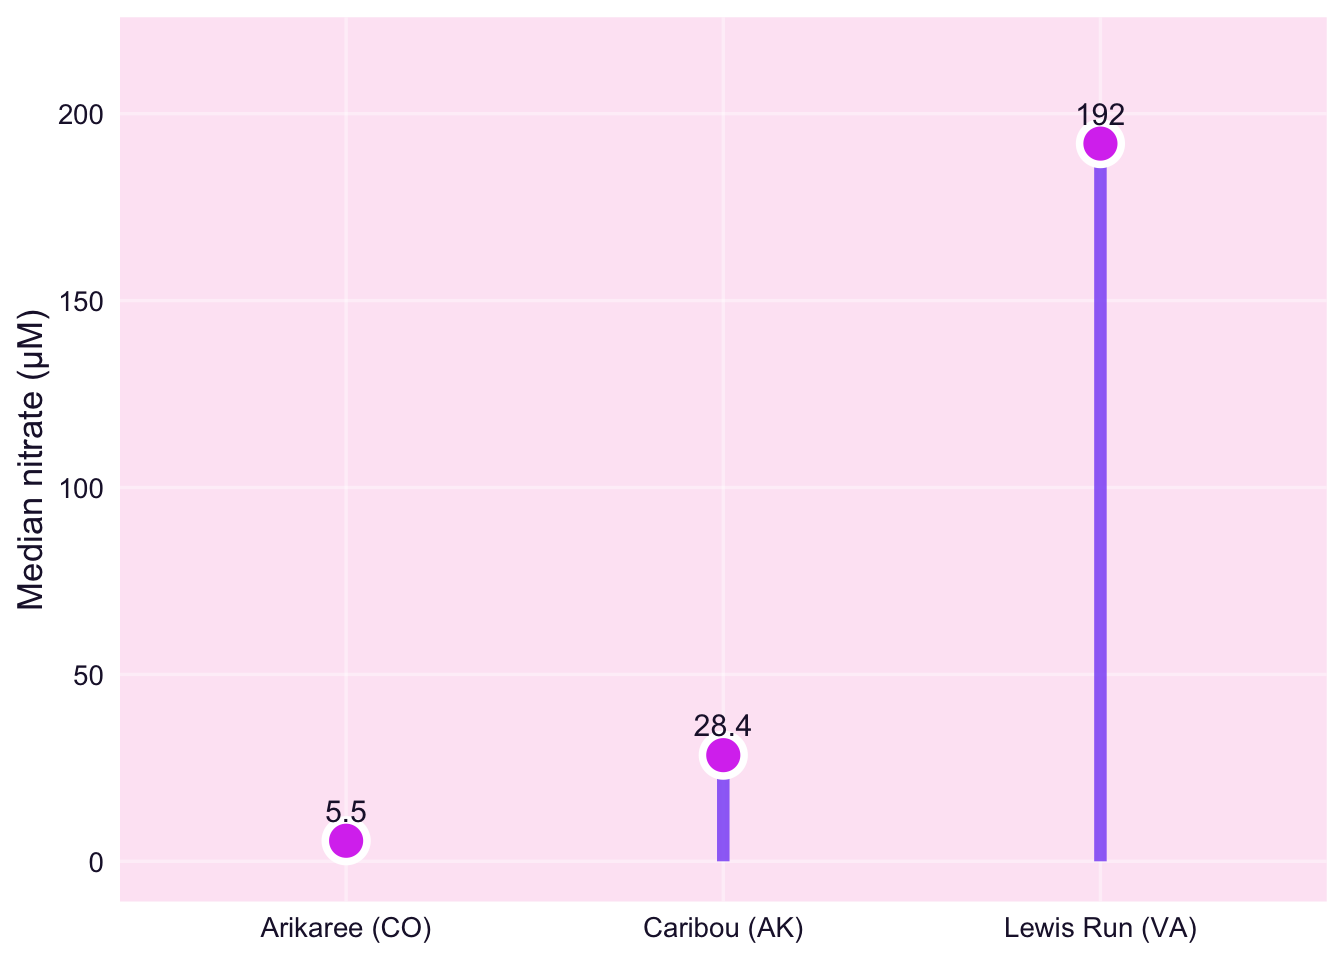
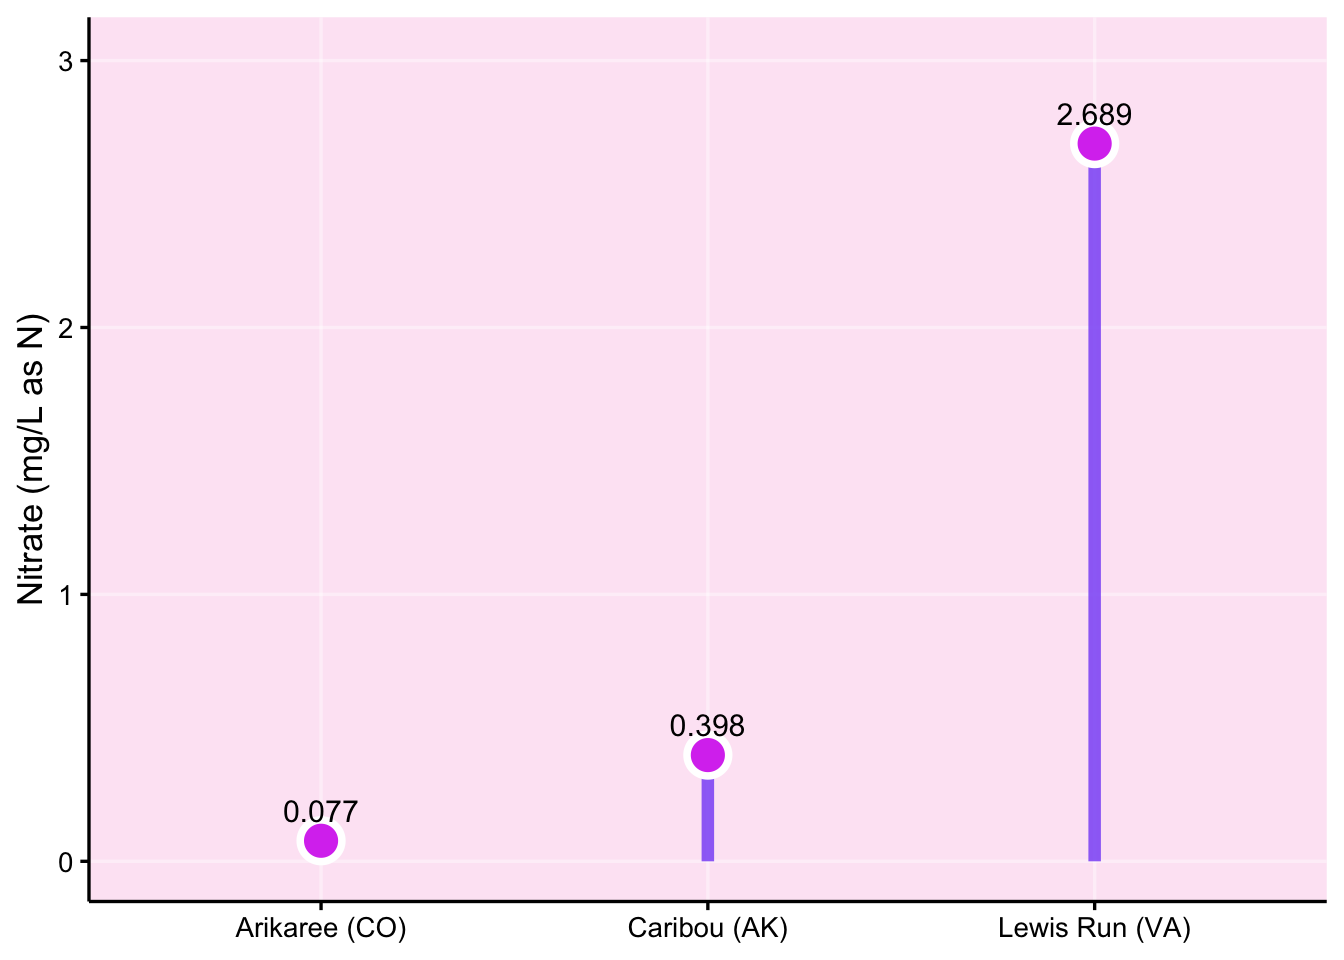
part c of the assignment

diff --git a/_site/posts/welcome/index.html b/_site/posts/welcome/index.html
@@ -7,7 +7,7 @@
 <meta name="viewport" content="width=device-width, initial-scale=1.0, user-scalable=yes">
 
 <meta name="author" content="Girika">
-<meta name="dcterms.date" content="2022-07-18">
+<meta name="dcterms.date" content="2025-10-07">
 
 <title>When Do Nitrate Levels Spike? – Girika’s Data Blog</title>
 <style>
@@ -161,7 +161,7 @@ div.csl-indent {
       <div>
       <div class="quarto-title-meta-heading">Published</div>
       <div class="quarto-title-meta-contents">
-        <p class="date">July 18, 2022</p>
+        <p class="date">October 7, 2025</p>
       </div>
     </div>
     
@@ -181,14 +181,20 @@ div.csl-indent {
 
 
 <section id="problem" class="level2">
-<h2 class="anchored" data-anchor-id="problem">Problem</h2>
-<p>Nitrate supports aquatic life at natural levels but in excess drives algal blooms and hypoxia. Managers need a <strong>quick way</strong> to know <em>when</em> nitrate spikes and whether <strong>routine sensors</strong> (conductivity, turbidity, dissolved oxygen, temperature, stage) can stand in for expensive nitrate probes.</p>
-<p>This post <strong>recasts my Assignment 2 analysis</strong> into an accessible summary: one clear figure, one compact table, and a practical takeaway.</p>
+<h2 class="anchored" data-anchor-id="problem">PROBLEM</h2>
+<p>Excess nitrate damages river health by fuelling algal blooms and lowering dissolved oxygen, especially after storm events when runoff pulses into streams. Continuous nitrate sensors are accurate but costly to purchase, maintain, and clean; many programs therefore rely on cheaper routine sensors (conductivity, turbidity, temperature, dissolved oxygen, stage). The practical question I addressed in Assignment 2 is: can routine sensors, with local calibration, tell us enough to spot nitrate peaks and time our sampling? I also ask where nitrate tends to be higher so limited effort can be focused. This blog translates the technical Assignment2 analysis into a manager-friendly summary with one clear figure and one compact table.*</p>
 </section>
 <section id="analysis" class="level2">
-<h2 class="anchored" data-anchor-id="analysis">Analysis</h2>
-<p><strong>Data source.</strong> NEON river sites — Arikaree (CO), Caribou (AK), Lewis Run (VA); nitrate by <strong>SUNA V2</strong> (~15-min), with routine sensors at similar cadence.</p>
-<p><strong>Approach</strong> In A2 I fitted <strong>GAMMs</strong> linking nitrate to routine sensors and time structure. For the blog: one clear <strong>figure</strong> + one <strong>table</strong> and what they mean.</p>
+<h2 class="anchored" data-anchor-id="analysis">ANALYSIS</h2>
+<p><strong>Data source.</strong></p>
+<p>I analysed high-frequency stream records from three <strong>NEON</strong> sites: <strong>Arikaree (CO)</strong> (semi arid, event driven), <strong>Caribou (AK)</strong> (pristine, stable), and <strong>Lewis Run (VA)</strong> (urban agricultural, persistently higher). Nitrate was measured by <strong>SUNA V2</strong> at ~15-minute cadence, alongside routine sensors: specific conductance, turbidity, dissolved oxygen, temperature, and stage. I aligned timestamps to nitrate and removed values flagged by NEON QC. Units for this post are <strong>mg/L as N</strong> for clarity.</p>
+<p><strong>Approach</strong></p>
+<p>In Assignment 2 I fitted <strong>GAMMs</strong> to capture smooth, nonlinear links between nitrate and routine sensors while modelling temporal autocorrelation. For this blog, I compress the findings into one visual and one table: <a href="#fig-nitrate" class="quarto-xref">Figure&nbsp;1</a> shows typical levels (medians, mg/L as N) by site; <a href="#tbl-nitrate" class="quarto-xref">Table&nbsp;1</a> adds coverage (days measured), “high day” proportions, and share of the total median. The goal is quick comprehension for decision-makers rather than model details.</p>
+<p><strong>Findings.</strong></p>
+<p>Typical nitrate differs sharply across sites: <strong>Lewis Run</strong> is much higher on median, <strong>Caribou</strong> is consistently low, and <strong>Arikaree</strong> is lower on median but <strong>spiky after rainfall</strong> (event driven behaviour). In A2, routine variables especially conductance, temperature, turbidity and stage explained most nitrate variation once temporal structure was included, indicating that calibrated routine sensors can act as reliable proxies for nitrate.</p>
+<p><strong>Design quality.</strong></p>
+<p>The figure uses on-brand colours and direct value labels for quick scanning; the table keeps units visible, right aligns numbers for easy comparison, and limits to the few fields needed for decisions. Link back to the question. Together, <a href="#fig-nitrate" class="quarto-xref">Figure&nbsp;1</a> and <a href="#tbl-nitrate" class="quarto-xref">Table&nbsp;1</a> show where nitrate is typically higher (Lewis Run) and when to concentrate effort (post rain windows at Arikaree), which is exactly what managers need to schedule sampling and alerts <span class="citation" data-cites="kermorvant2023">(<a href="#ref-kermorvant2023" role="doc-biblioref">Kermorvant et al. 2023</a>)</span>.</p>
+<p>The pair of visuals answers <em>when</em> and <em>where</em> to focus: persistent <strong>higher background</strong> at <strong>Lewis Run</strong> warrants ongoing nitrate checks; <strong>post-rain windows</strong> at <strong>Arikaree</strong> are the prime times for surge sampling; <strong>Caribou’s</strong> stability means routine sensors often suffice. This targeted strategy routine sensor backbone plus short, well timed nitrate measurements addresses the original problem efficiently and aligns with recent evidence that nitrate can be inferred from routine variables across contrasting rivers <span class="citation" data-cites="kermorvant2023">(<a href="#ref-kermorvant2023" role="doc-biblioref">Kermorvant et al. 2023</a>)</span>.</p>
 <div class="cell">
 <div class="cell-output-display">
 <div id="fig-nitrate" class="quarto-float quarto-figure quarto-figure-center anchored">
@@ -197,18 +203,18 @@ div.csl-indent {
 <img src="index_files/figure-html/fig-nitrate-1.png" class="img-fluid figure-img" width="672">
 </div>
 <figcaption class="quarto-float-caption-bottom quarto-float-caption quarto-float-fig" id="fig-nitrate-caption-0ceaefa1-69ba-4598-a22c-09a6ac19f8ca">
-Figure&nbsp;1: Nitrate contrasts by site (median, µM).
+Figure&nbsp;1: Nitrate contrasts by site (median, mg/L as N).
 </figcaption>
 </figure>
 </div>
 </div>
 </div>
-<p>Reading Figure <a href="#fig-nitrate" class="quarto-xref">Figure&nbsp;1</a>. Lewis Run’s median nitrate dwarfs the others; Caribou is low and steady; Arikaree is lower on median but more event-driven. This points to where risk is persistent and when to prioritise targeted sampling (e.g., post-rain windows).</p>
+<p><a href="#fig-nitrate" class="quarto-xref">Figure&nbsp;1</a> shows medians only (no clutter) so differences are obvious at a glance. On-brand colours separate sites, value labels sit just above points, and axes are kept simple with units shown on the y-axis. A soft background panel improves contrast with the page while black axis/tick styling maintains readability.</p>
 <div class="cell">
 <div id="tbl-nitrate" class="cell quarto-float quarto-figure quarto-figure-center anchored">
 <figure class="quarto-float quarto-float-tbl figure">
 <figcaption class="quarto-float-caption-top quarto-float-caption quarto-float-tbl" id="tbl-nitrate-caption-0ceaefa1-69ba-4598-a22c-09a6ac19f8ca">
-Table&nbsp;1: Compact summary of site medians (µM), days measured, and share of total.
+Table&nbsp;1: Compact summary of site medians (mg/L as N), days measured, and share of total.
 </figcaption>
 <div aria-describedby="tbl-nitrate-caption-0ceaefa1-69ba-4598-a22c-09a6ac19f8ca">
 <div class="cell-output-display">
@@ -216,7 +222,7 @@ Table&nbsp;1: Compact summary of site medians (µM), days measured, and share of
 <thead>
 <tr class="header">
 <th data-quarto-table-cell-role="th" style="text-align: left; font-weight: bold; color: rgba(139, 92, 246, 255) !important; background-color: rgba(253, 231, 245, 255) !important;">Site</th>
-<th data-quarto-table-cell-role="th" style="text-align: right; font-weight: bold; color: rgba(139, 92, 246, 255) !important; background-color: rgba(253, 231, 245, 255) !important;">Median (µM)</th>
+<th data-quarto-table-cell-role="th" style="text-align: right; font-weight: bold; color: rgba(139, 92, 246, 255) !important; background-color: rgba(253, 231, 245, 255) !important;">Median (mg/L as N)</th>
 <th data-quarto-table-cell-role="th" style="text-align: right; font-weight: bold; color: rgba(139, 92, 246, 255) !important; background-color: rgba(253, 231, 245, 255) !important;">Days measured</th>
 <th data-quarto-table-cell-role="th" style="text-align: right; font-weight: bold; color: rgba(139, 92, 246, 255) !important; background-color: rgba(253, 231, 245, 255) !important;">High days</th>
 <th data-quarto-table-cell-role="th" style="text-align: right; font-weight: bold; color: rgba(139, 92, 246, 255) !important; background-color: rgba(253, 231, 245, 255) !important;">Share of total</th>
@@ -225,21 +231,21 @@ Table&nbsp;1: Compact summary of site medians (µM), days measured, and share of
 <tbody>
 <tr class="odd">
 <td style="text-align: left;">Arikaree (CO)</td>
-<td style="text-align: right;">5.5</td>
+<td style="text-align: right;">0.077</td>
 <td style="text-align: right;">120</td>
 <td style="text-align: right;">18%</td>
 <td style="text-align: right;">2%</td>
 </tr>
 <tr class="even">
 <td style="text-align: left;">Caribou (AK)</td>
-<td style="text-align: right;">28.4</td>
+<td style="text-align: right;">0.398</td>
 <td style="text-align: right;">110</td>
 <td style="text-align: right;">5%</td>
 <td style="text-align: right;">13%</td>
 </tr>
 <tr class="odd">
 <td style="text-align: left;">Lewis Run (VA)</td>
-<td style="text-align: right;">192.0</td>
+<td style="text-align: right;">2.689</td>
 <td style="text-align: right;">118</td>
 <td style="text-align: right;">26%</td>
 <td style="text-align: right;">85%</td>
@@ -253,12 +259,12 @@ Table&nbsp;1: Compact summary of site medians (µM), days measured, and share of
 </figure>
 </div>
 </div>
-<p>Reading Table <a href="#tbl-nitrate" class="quarto-xref">Table&nbsp;1</a>. The numbers mirror Figure <a href="#fig-nitrate" class="quarto-xref">Figure&nbsp;1</a> and support a targeted monitoring plan: keep routine sensors everywhere; add nitrate-specific effort at higher-risk sites/times.</p>
+<p><a href="#tbl-nitrate" class="quarto-xref">Table&nbsp;1</a> provides just the decision-relevant fields: median nitrate (with units), days measured (coverage), an easy “high-day” percentage, and the share of total. Numbers are right-aligned for scanning; headers include units; the caption is concise so readers know exactly what they’re looking at without hunting in the text.</p>
 <p>Why routine sensors matter (A2). In my Assignment 2 models, a small, consistent set of routine variables captured most of the signal for nitrate; once temporal structure is included, fit was extremely high. That means managers can rely on calibrated routine sensors as a cost-effective backbone, using nitrate probes for calibration and hotspots.</p>
 </section>
 <section id="conclusion" class="level2">
-<h2 class="anchored" data-anchor-id="conclusion">Conclusion</h2>
-<p>Short, event-driven nitrate episodes drive most risk. Use routine sensors everywhere, calibrate locally, and concentrate extra effort around likely peak windows. This communication-first summary complements the technical A2 report and aligns with literature showing nitrate can be inferred from routine variables across contrasting rivers <span class="citation" data-cites="kermorvant2023">(<a href="#ref-kermorvant2023" role="doc-biblioref">Kermorvant et al. 2023</a>)</span>.</p>
+<h2 class="anchored" data-anchor-id="conclusion">CONCLUSION</h2>
+<p>This analysis shows clear site contrasts: <strong>Lewis Run</strong> has persistently higher nitrate, while <strong>Caribou</strong> is low and <strong>Arikaree</strong> is lower on median but <strong>spikes after rainfall</strong>. The simple visuals <a href="#fig-nitrate" class="quarto-xref">Figure&nbsp;1</a> (medians in mg/L as N) and <a href="#tbl-nitrate" class="quarto-xref">Table&nbsp;1</a> (coverage, share, and “high-day” proportions)—let managers see both <strong>where</strong> nitrate is typically higher and <strong>when</strong> to intensify effort. Practically, keep routine sensors at all sites and <strong>calibrate locally</strong> to nitrate; prioritise continuous nitrate checks at <strong>Lewis Run</strong>, and schedule <strong>post-rain surge sampling</strong> at <strong>Arikaree</strong>. At <strong>Caribou</strong>, routine sensors will often suffice outside unusual events. These recommendations align with my Assignment 2 modelling (routine variables explain most nitrate variation with temporal structure) and with recent literature that supports nitrate inference from routine sensors <span class="citation" data-cites="kermorvant2023">(<a href="#ref-kermorvant2023" role="doc-biblioref">Kermorvant et al. 2023</a>)</span>. Overall, a <strong>targeted monitoring strategy</strong>—routine-sensor backbone plus short, well-timed nitrate measurements—delivers better information at lower cost and answers the original question.</p>
 <p>bibliography: references.bib<span class="citation" data-cites="kermorvant2023">(<a href="#ref-kermorvant2023" role="doc-biblioref">Kermorvant et al. 2023</a>)</span></p>
 <p><img src="thumbnail.jpg" class="img-fluid"></p>
 

diff --git a/_site/index.html b/_site/index.html
@@ -209,7 +209,7 @@ window.Quarto = {
 
 <div class="quarto-listing quarto-listing-container-default" id="listing-listing">
 <div class="list quarto-listing-default">
-<div class="quarto-post image-right" data-index="0" data-categories="bmV3cw==" data-listing-date-sort="1658066400000" data-listing-file-modified-sort="1759752808481" data-listing-date-modified-sort="NaN" data-listing-reading-time-sort="4" data-listing-word-count-sort="721">
+<div class="quarto-post image-right" data-index="0" data-categories="bmV3cw==" data-listing-date-sort="1759755600000" data-listing-file-modified-sort="1759827204337" data-listing-date-modified-sort="NaN" data-listing-reading-time-sort="7" data-listing-word-count-sort="1211">
 <div class="thumbnail">
 <p><a href="./posts/welcome/index.html" class="no-external"></a></p><a href="./posts/welcome/index.html" class="no-external">
 <p class="card-img-top"><img src="posts/welcome/thumbnail.jpg"  class="thumbnail-image card-img"/></p>
@@ -228,13 +228,13 @@ news
 </div>
 </div>
 <div class="listing-description">
-<a href="./posts/welcome/index.html" class="no-external">Nitrate supports aquatic life at natural levels but in excess drives algal blooms and hypoxia. Managers need a <strong>quick way</strong> to know <em>when</em> nitrate spikes and whether <strong>routine…</strong></a>
+<a href="./posts/welcome/index.html" class="no-external">Excess nitrate damages river health by fuelling algal blooms and lowering dissolved oxygen, especially after storm events when runoff pulses into streams. Continuous nitrate…</a>
 </div>
 </div>
 <div class="metadata">
 <a href="./posts/welcome/index.html" class="no-external">
 <div class="listing-date">
-Jul 18, 2022
+Oct 7, 2025
 </div>
 <div class="listing-author">
 Girika
